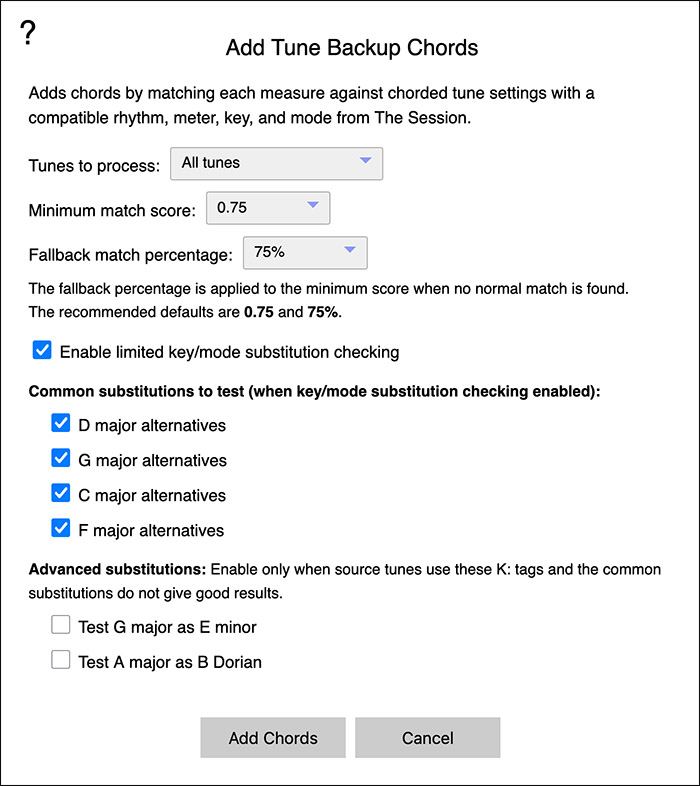
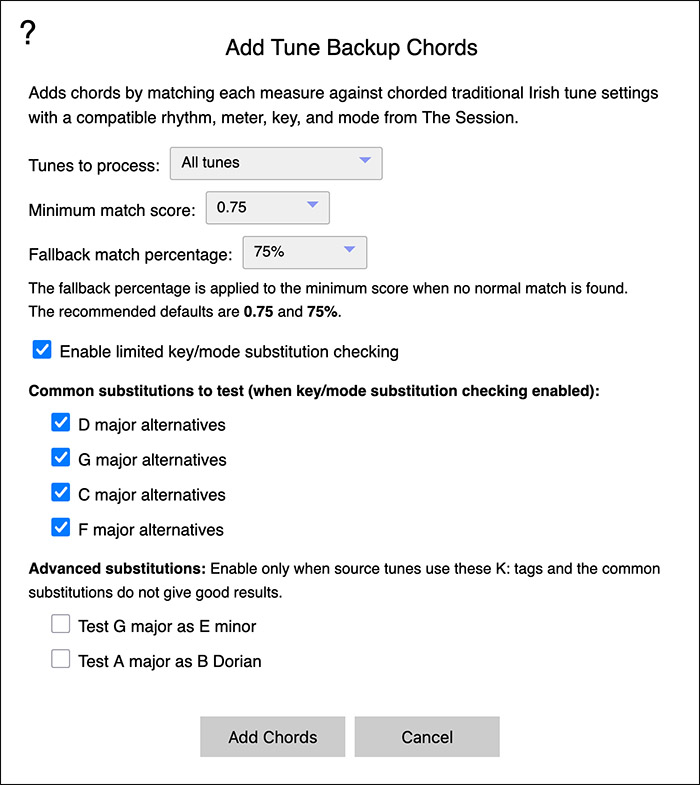
Minor wording changes

diff --git a/abc-chord-matcher.js b/abc-chord-matcher.js
@@ -2201,7 +2201,7 @@
 
     var form = [
       { html: '<p class="chord_matcher_dialog_title" style="margin-left:15px;">Add Tune Backup Chords&nbsp;&nbsp;<span style="font-size:24pt;" title="View documentation in new tab"><a href="https://michaeleskin.com/abctools/userguide.html#add_tune_backup_chords" target="_blank" style="text-decoration:none;position:absolute;left:20px;top:20px" class="dialogcornerbutton">?</a></span></p>' },
-      { html: '<p class="chord_matcher_dialog_intro">Adds chords by matching each measure against chorded tune settings with a compatible rhythm, meter, key, and mode from The Session.</p>' },
+      { html: '<p class="chord_matcher_dialog_intro">Adds chords by matching each measure against chorded traditional Irish tune settings with a compatible rhythm, meter, key, and mode from The Session.</p>' },
       { name: "Tunes to process:", id: "scope", type: "select", options: [
         { name: "Current tune", id: "current" },
         { name: "All tunes", id: "all" }

diff --git a/userguide.html b/userguide.html
@@ -5661,7 +5661,7 @@
                 </div>
                 <p class="hidden-print" style="margin-top:24px;margin-bottom:24px;text-align:center"><iframe width="620" height="338" loading="lazy" src="https://www.youtube.com/embed/cOXvnPq_dcQ" title="Add Tune Backup Chords Demo" frameborder="0" allow="accelerometer; autoplay; clipboard-write; encrypted-media; gyroscope; picture-in-picture;" allowfullscreen></iframe></p>
                 <p>The feature does not attempt to determine harmony directly from the notes using music theory.</p>
-                <p>Instead, it compares each measure against already-chorded tune settings from The Session and copies chords from the closest compatible measures it finds.</p>
+                <p>Instead, it compares each measure against already-chorded traditional Irish tune settings from The Session and copies chords from the closest compatible measures it finds.</p>
                 <p>The generated chords should be treated as a practical starting point for review and editing rather than as a final authoritative chord setting.</p>
                 <hr>
                 <p><strong>Tunes to Process:</strong></p>